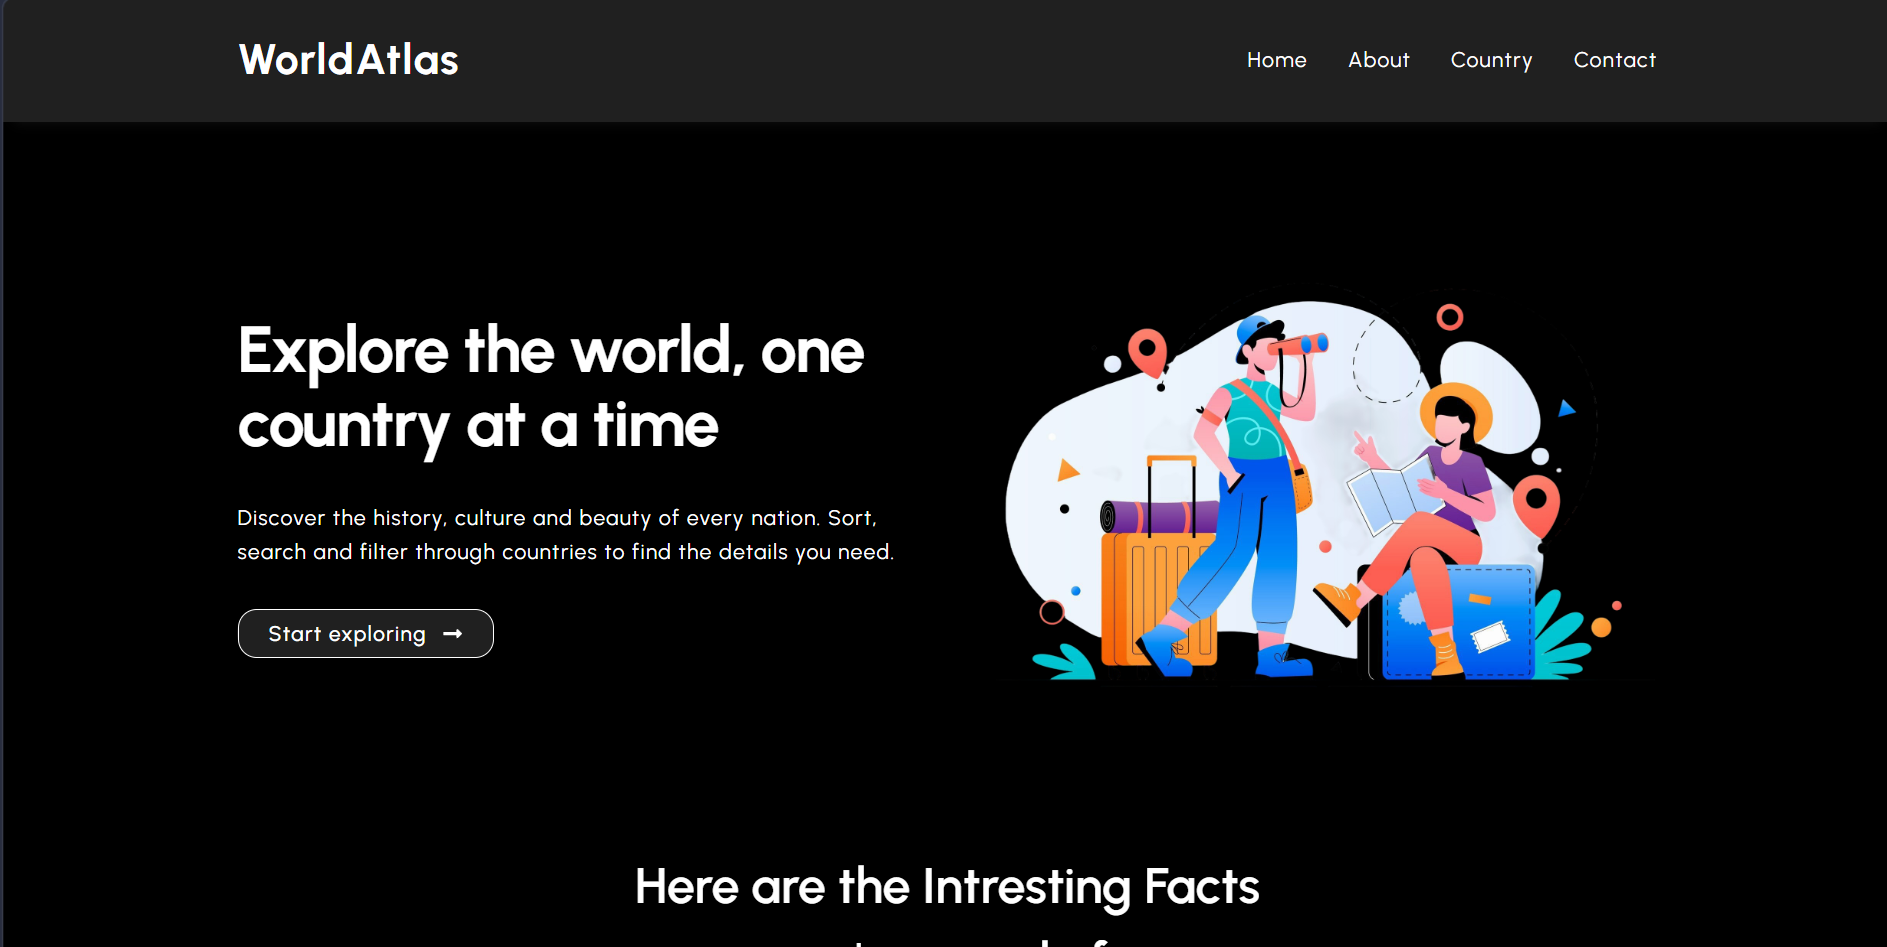
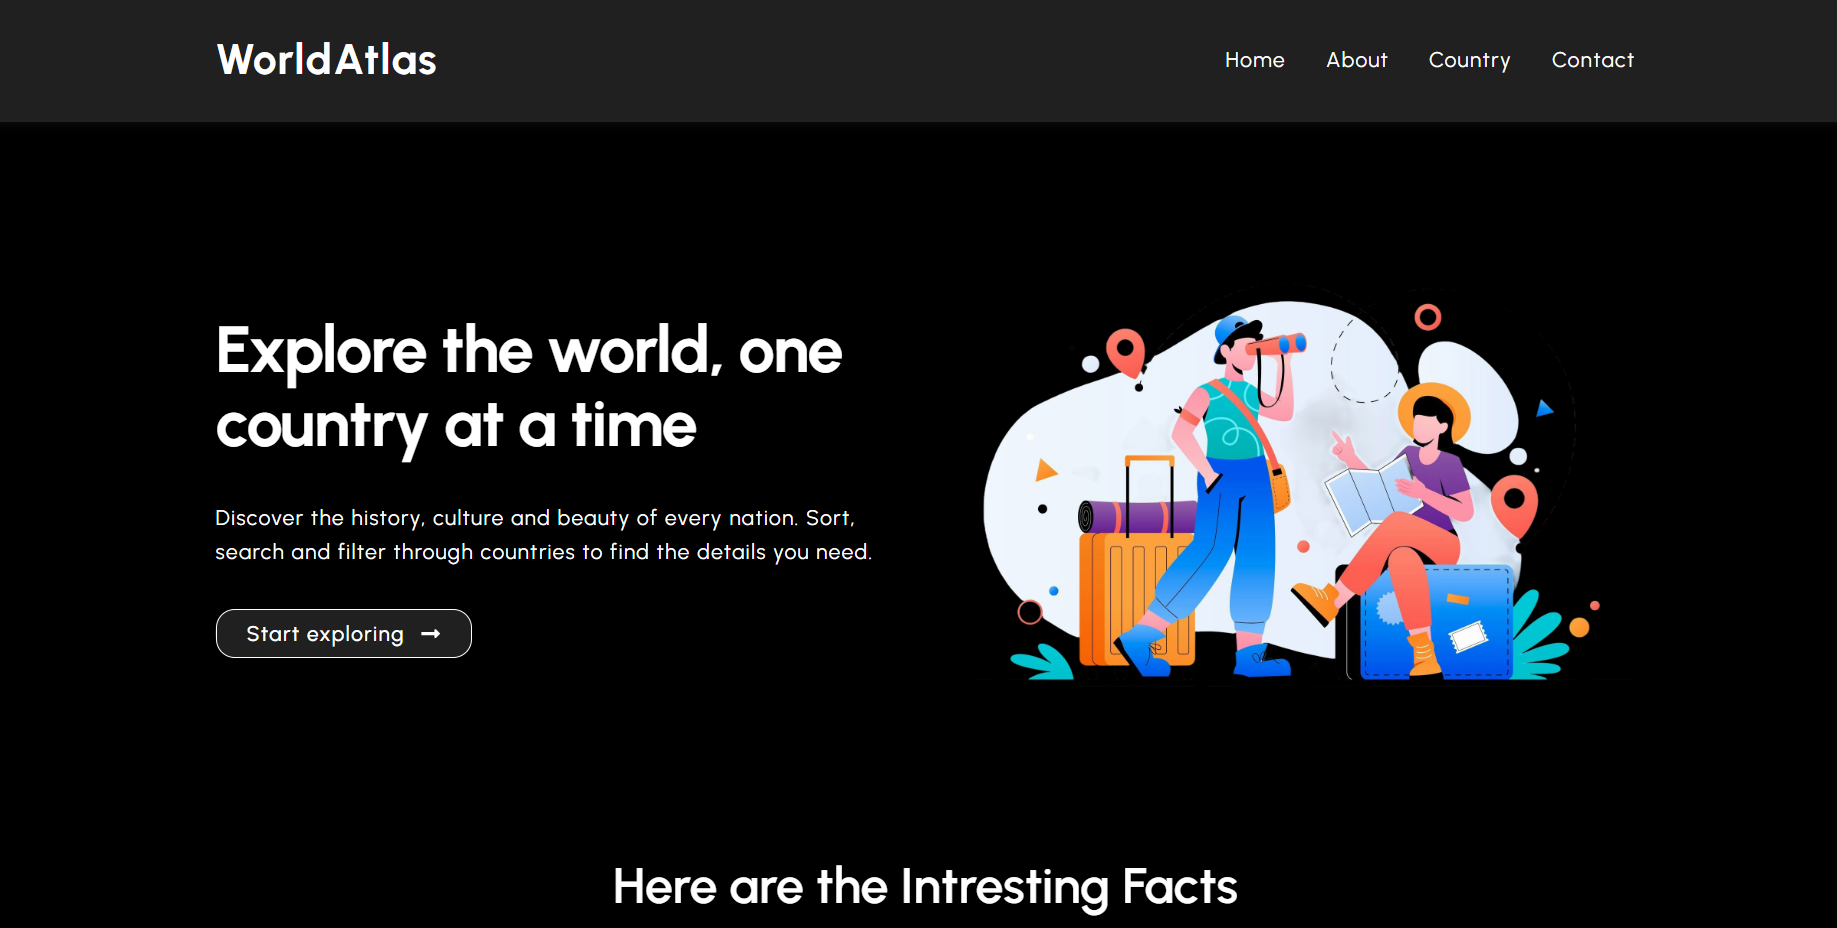
Files Updated

diff --git a/src/UI/FooterUI.jsx b/src/UI/FooterUI.jsx
@@ -1,7 +1,5 @@
 import { CgCodeSlash, CgProfile } from "react-icons/cg";
-import { ImProfile } from "react-icons/im";
 import { MdOutlineEmail } from "react-icons/md";
-import { RiProfileLine } from "react-icons/ri";
 import { NavLink } from "react-router-dom";
 
 export const FooterUI = () => {
@@ -24,8 +22,7 @@ export const FooterUI = () => {
         </div>
         <span className="text-gray-400">|</span>
         <div className="flex gap-1 md:gap-2">
-          <NavLink className="footer-nav">Privacy</NavLink>
-          <NavLink className="footer-nav">Terms</NavLink>
+          <p className="copyright">Developed and designed with care.</p>
         </div>
       </div>
     </footer>

diff --git a/src/index.css b/src/index.css
@@ -376,7 +376,7 @@ h1 {
 
 /* ================= Footer ================= */
 .footer-container {
-  @apply w-full bg-[#11131c] mt-auto;
+  @apply w-full mt-auto;
 }
 
 footer {
@@ -384,7 +384,7 @@ footer {
 }
 
 .copyright {
-  @apply text-[12px] md:text-sm font-medium text-gray-400;
+  @apply text-[12px] md:text-sm font-mono font-medium tracking-tight text-[#525458];
 }
 
 .footer-right-side {

diff --git a/src/Layout/Footer.jsx b/src/Layout/Footer.jsx
@@ -1,9 +1,10 @@
-import { FooterUI } from "../UI/FooterUI"
+import { FooterUI } from "../UI/FooterUI";
 
 export const Footer = () => {
-    return (
+  return (
     <div className="footer-container">
-        <FooterUI />
+      <hr className="horizontal-line" />
+      <FooterUI />
     </div>
-)
-}
+  );
+};
